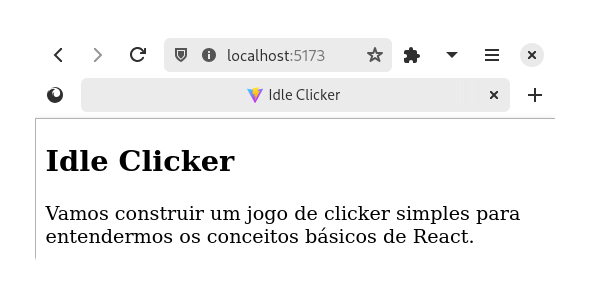
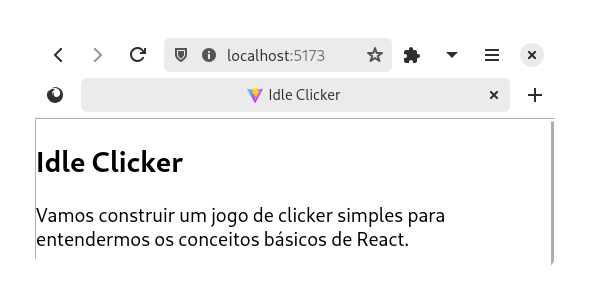
Configure prettier and add main CSS

Changed region(s): [[0.061, 0.6743, 0.8847, 0.8208], [0.061, 0.4691, 0.3966, 0.557], [0.9153, 0.4104, 0.9458, 0.8502]]

diff --git a/project/src/index.css b/project/src/index.css
@@ -1,0 +1,27 @@
+* {
+  font-family:
+    system-ui,
+    -apple-system,
+    BlinkMacSystemFont,
+    "Segoe UI",
+    Roboto,
+    Oxygen,
+    Ubuntu,
+    Cantarell,
+    "Open Sans",
+    "Helvetica Neue",
+    sans-serif;
+}
+
+html {
+  height: 100dvh;
+}
+
+body,
+#root {
+  display: flex;
+  flex-direction: column;
+  height: 100%;
+  width: 100%;
+  margin: 0;
+}

diff --git a/project/src/App.tsx b/project/src/App.tsx
@@ -3,8 +3,9 @@ export default function App() {
     <article>
       <h1>Idle Clicker</h1>
       <p>
-        Vamos construir um jogo de clicker simples para entendermos os conceitos básicos de React.
+        Vamos construir um jogo de clicker simples para entendermos os conceitos
+        básicos de React.
       </p>
     </article>
-  )
+  );
 }
